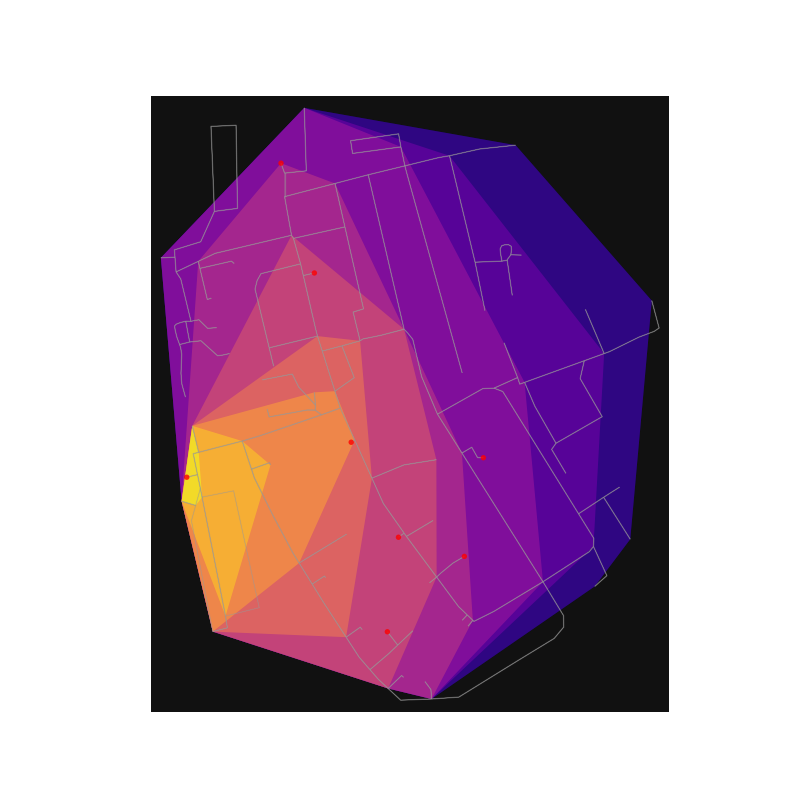
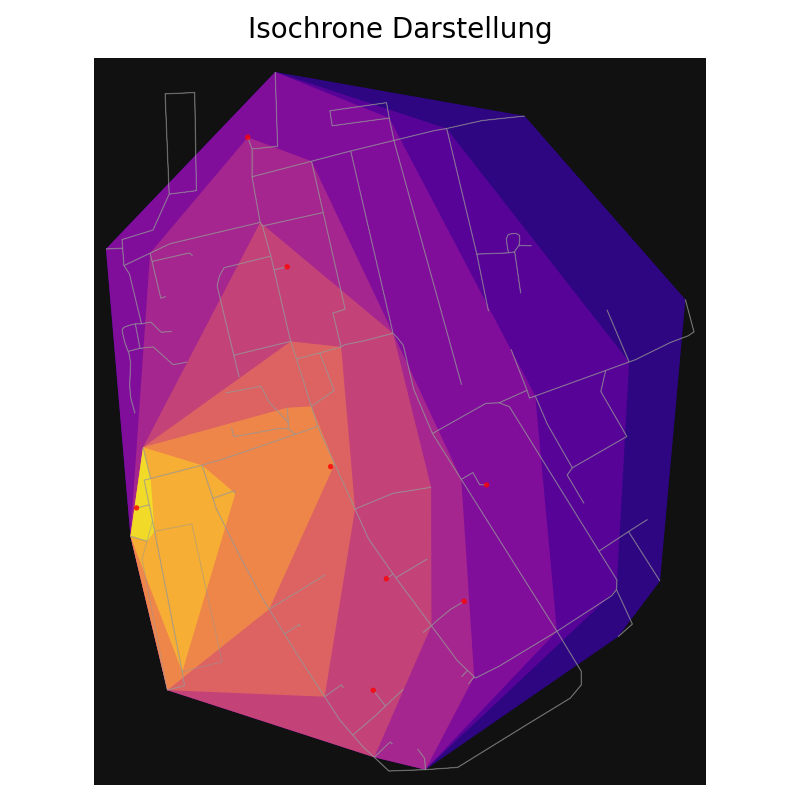
Bildtitel in weiß

diff --git a/analysis/analysis.py b/analysis/analysis.py
@@ -67,7 +67,7 @@ ox.plot_graph_routes(G, routes, route_colors="y", route_linewidth=2, node_size=0
 # desciption of the plot
 
 
-fig.suptitle("Routing zu allen Eingängen", fontsize=20,color = "white")
+fig.suptitle("Routing zu allen Eingängen", fontsize=20,color = "black")
 fig.tight_layout()
 
 #save as png
@@ -112,7 +112,7 @@ fig, ax = ox.plot_graph(G, show=False, close=False, node_size=0)
 # Plot all routes
 ox.plot_graph_routes(G, routes, route_colors="y", route_linewidth=2, node_size=0, ax=ax, show = False, close = False)
 
-fig.suptitle("Routing zu allen erreichbaren Eingängen", fontsize=20,color = "white")
+fig.suptitle("Routing zu allen erreichbaren Eingängen", fontsize=20,color = "black")
 fig.tight_layout()
 
 
@@ -176,7 +176,7 @@ for i in range(len(tsp_path) - 1):  # Loop through pairs
 
 # Plot the optimized routes
 ox.plot_graph_routes(G, tsp_routes, route_colors="b", route_linewidth=2, node_size=0, ax=ax, show = False, close = False)
-fig.suptitle("Optimierte TSP Route", fontsize=20,color = "white")
+fig.suptitle("Optimierte TSP Route", fontsize=20,color = "black")
 fig.tight_layout()
 
 # total travel time with v= 6 km/h
@@ -248,6 +248,8 @@ ox.plot.plot_graph(
     edge_color="#999999",
     ax=ax,
 )
+fig.suptitle("Isochrone Darstellung", fontsize=20,color = "black")
+fig.tight_layout()
 
 plt.show()
 
